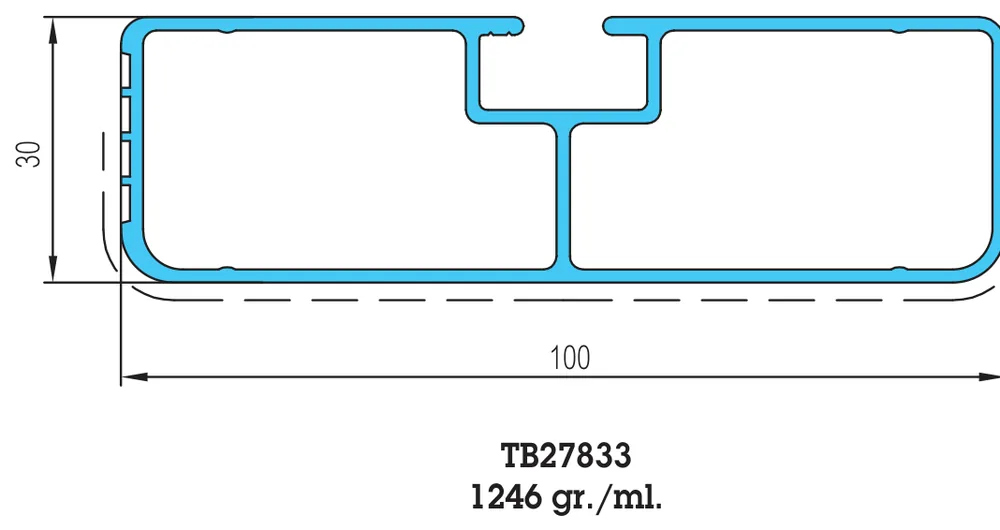
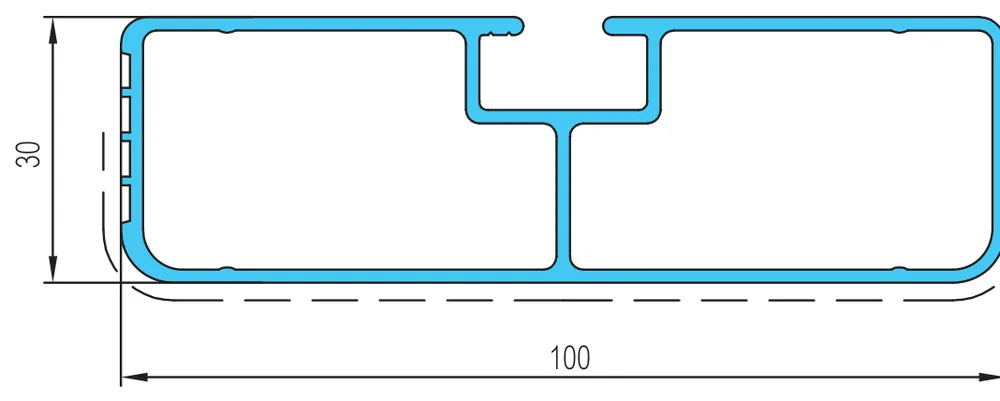
207833 aláfutásgátló: a TB27833 cikkszám és a tömeg felirata levágva mindkét képről
Claude-Session: https://claude.ai/code/session_01GqcGcrqDWYvNfyrVUkczEM

diff --git a/scripts/termekadatok/bodega.py b/scripts/termekadatok/bodega.py
@@ -22,7 +22,8 @@ PDF = ROOT / "data/forras/bodega_bordwaendekatalog_30.pdf"
 ITEMS = {  # kód -> (oldal, kivágás [pt], műszaki adatok)
     "TB25549": (7, (145, 95, 252, 785), {"Tömeg": "4,116 kg/fm", "Magasság": "400 mm", "Vastagság": "25 mm", "Kivitel": "peremes oldalfal-profil"}),
     "TB28153": (10, (50, 520, 178, 745), {"Tömeg": "0,724 kg/fm", "Belső szélesség": "29,5 mm", "Magasság": "40 mm", "Kivitel": "U-szegő 25 mm-es oldalfalhoz"}),
-    "TB27833": (15, (42, 505, 367, 680), {"Tömeg": "1,246 kg/fm", "Méret": "100 × 30 mm", "Kivitel": "aláfutásgátló profil"}),
+    "TB27833": (15, (42, 505, 367, 640),  # a cikkszám és a tömeg felirata nélkül
+                {"Tömeg": "1,246 kg/fm", "Méret": "100 × 30 mm", "Kivitel": "aláfutásgátló profil"}),
 }
 
 
